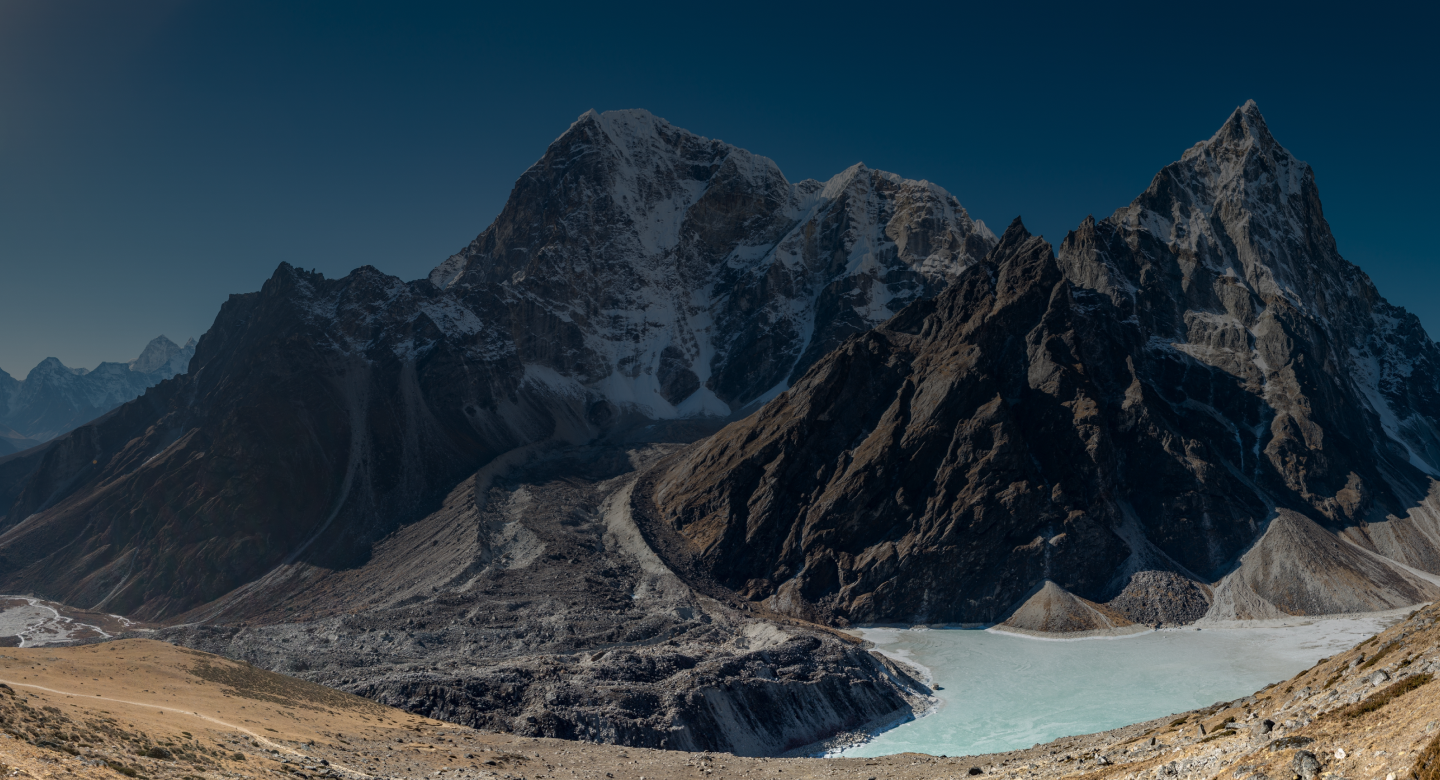
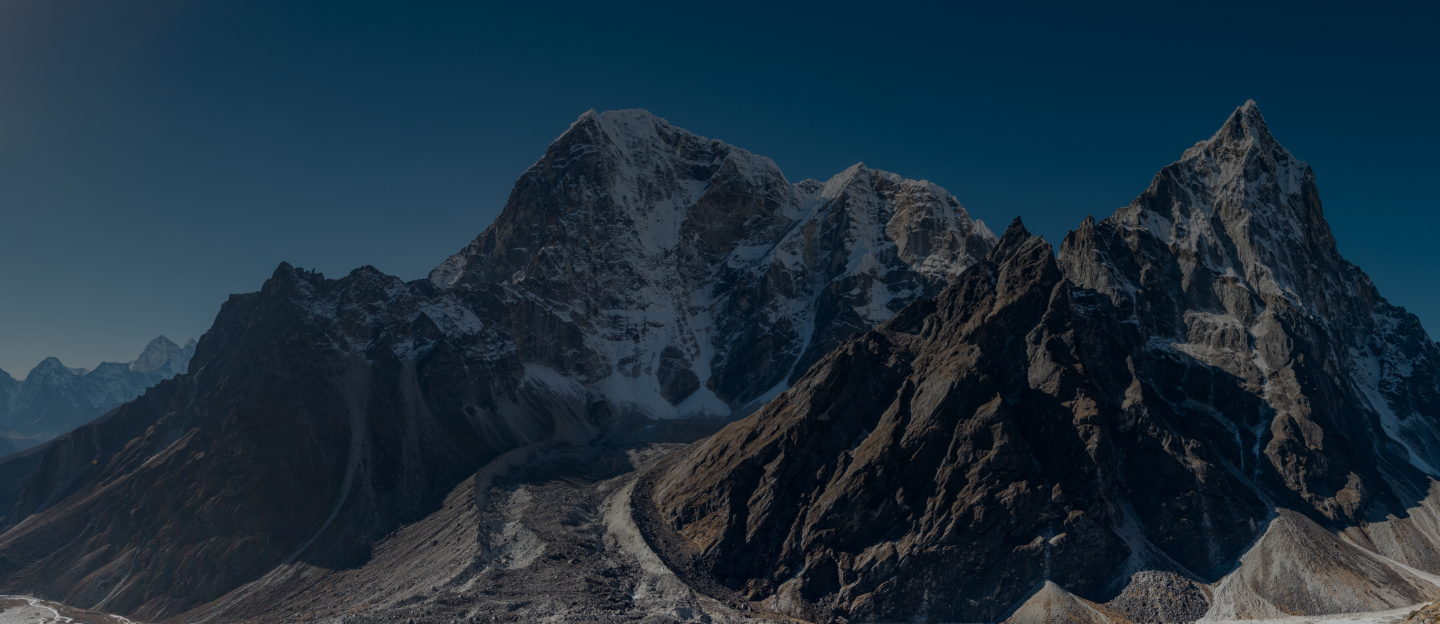
still modifying the landing page

diff --git a/travelagency/src/Components/Section1/Section1.jsx b/travelagency/src/Components/Section1/Section1.jsx
@@ -7,8 +7,7 @@ const Section1 = () => {
     return (
 
         <>
-
-            <header>
+            <main>
                 <nav className="navbar navbar-expand-sm navbar-dark bg-red nav-sec">
                     <div className="container-fluid">
 
@@ -36,9 +35,8 @@ const Section1 = () => {
                         </div>
                     </div>
                 </nav>
-            </header>
+            </main>
 
-            
                 <div className="container">
                     <div className="row">
                         <div className="col-md-8">
@@ -55,7 +53,18 @@ const Section1 = () => {
                         <div className="col-md-4"></div>
                     </div>
                 </div>
-            
+                
+                <section className="container backg22">
+                    <div className="thcontents">
+                        <div className="row">
+                        <div className="col-md-2">vcvc</div>
+                        <div className="col-md-2">cvc</div>
+                        <div className="col-md-2">cvcv</div>
+                        <div className="col-md-2">cvcv</div>
+                        <div className="col-md-4">dvdfd</div>
+                        </div>
+                    </div>
+                </section>
 
         </>
 

diff --git a/travelagency/src/Components/Section1/Section1.css b/travelagency/src/Components/Section1/Section1.css
@@ -7,6 +7,7 @@ body{
     background-image: url(../../assets/Section1/backghome.png);
     background-repeat: no-repeat;
     background-size: cover;
+    height: 20rem;
 }
 
 .navbar-dark .navbar-nav .nav-link {
@@ -84,4 +85,17 @@ body{
     color: white;
     height: 53px;
     width: 12em;
+}
+
+.backg22{
+    background-color: #f0e9e9;
+    height: 10em;
+    margin-top: 10em;
+    border-radius: 10px;
+    box-shadow: 0 4px 8px 0 rgba(0, 0, 0, 0.2), 0 6px 20px 0 rgba(0, 0, 0, 0.19);
+}
+
+.thcontents{
+    padding: 4em;
+    
 }

diff --git a/travelagency/src/App.js b/travelagency/src/App.js
@@ -1,13 +1,11 @@
 import logo from './logo.svg';
 import './App.css';
 import Section1 from './Components/Section1/Section1';
-import Section2 from './Components/Section2/Section2';
 
 function App() {
   return (
     <>
-     <Section1 />
-     <Section2 />
+        
     </>
   );
 }

diff --git a/travelagency/src/Components/Section2/Section2.css b/travelagency/src/Components/Section2/Section2.css
@@ -1,4 +1,9 @@
-body{
-    background-color: blue;
-    height: 30rem;
-}
+.nextunder {
+    position: relative;
+    top: 12em;
+    width: 70%;
+    height: 8em;
+    position: relative;
+    left: 16rem;
+    bottom: 3em;
+}   

diff --git a/travelagency/src/Components/Section2/Section2.jsx b/travelagency/src/Components/Section2/Section2.jsx
@@ -1,12 +1,12 @@
 import React from "react";
-
 import '../Section2/Section2.css';
 
-const Section2 =() => {
+const Section2 = () => {
     return(
 
         <>
-        <p></p>
+       
+            
         </>
 
     );
